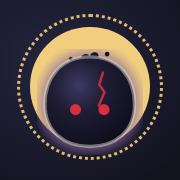
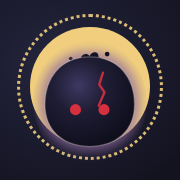
fix(nubatama site): アイコンのぬばたまの四角い跡と重い縁を直して撮り直す
オーナー 11-16「2つとも直して」。
- 四角い跡：原画のページ（nubatama/brand.html）には Tailwind が無く、駒の SVG の overflow-visible
  （クラス）が効かずに overflow: hidden のままだった。そのため暗紫のにじみが駒の四角い枠で切れ、
  月の上に四角い跡が出ていた（前のアイコンにもあった）。ページの CSS で .puyo-svg を overflow: visible に。
  ゲームの画面は Tailwind で もともと visible なので、盤の駒は変わらない
- 重い縁：ぬばたまの月白の縁を --nb-rim / --nb-rim-w で替えられるようにし（既定は盤と同じ
  rgba(232,228,216,.45)・1.3）、アイコンの大きな絵（駒 80px 以上）だけ .3・0.5 に細く淡くした。
  32px のタブのアイコンは駒が盤より小さいので盤と同じ縁のまま
- scripts/nubatama-brand.ps1 -Icon a で5枚を撮り直した

Changed region(s): [[0.2222, 0.3056, 0.7778, 0.8333]]

diff --git a/nubatama/brand.tsx b/nubatama/brand.tsx
@@ -25,11 +25,18 @@ const u = (v: number) => (v / 512) * s; // 512 枠の画素 → 実寸
 const FREEZE = `*, *::before, *::after { animation-play-state: paused !important; animation-delay: 0s !important; transition: none !important; }
 .onibi-spark { display: none !important; }`;
 
+/**
+ * ぬばたまの月白の縁。盤（駒 30〜40px）の太さ 1.3（40 枠）のままだと、アイコンの大きな絵（駒 100px 以上）では
+ * 太い灰色の輪に見えて重い（11-16 オーナー「2つとも直して」）。大きな絵だけ細く淡くする。
+ * 32px のタブのアイコンは駒が 19px で盤より小さいので、盤と同じ縁のまま（細くすると消える）
+ */
+const RIM_VARS = (sizePx: number) => (sizePx >= 80 ? { '--nb-rim': 'rgba(232,228,216,.3)', '--nb-rim-w': '0.5' } : {});
+
 /** 駒ひとつ。cx, cy は中心、size は駒の大きさ（512 枠） */
 const Piece: React.FC<{ color: 'ojama' | 'red' | 'blue' | 'green' | 'yellow'; cx: number; cy: number; size: number; rot?: number; filter?: string }> =
   ({ color, cx, cy, size, rot = 0, filter }) => (
     <div style={{ position: 'absolute', left: u(cx - size / 2), top: u(cy - size / 2), width: u(size), height: u(size),
-      rotate: rot ? `${rot}deg` : undefined, filter, ['--puyo-size' as string]: `${u(size)}px` } as React.CSSProperties}>
+      rotate: rot ? `${rot}deg` : undefined, filter, ['--puyo-size' as string]: `${u(size)}px`, ...RIM_VARS(u(size)) } as React.CSSProperties}>
       {color === 'ojama'
         ? <div style={{ clipPath: 'ellipse(54% 58% at 50% 50%)' }}><Puyo color="ojama" /></div>
         : <Puyo color={color} idle />}

diff --git a/components/game/Puyo.tsx b/components/game/Puyo.tsx
@@ -251,7 +251,8 @@ export const Nubatama: React.FC<{ variant?: number; blinkDelay?: string; eyes?: 
       <circle cx="26.6" cy="1.9" r=".9" fill="#141326" />
       <circle cx="12.8" cy="3.6" r=".7" fill="#141326" opacity=".8" />
       <use href="#puyo-body" fill="url(#puyo-g-ojama)" />
-      <use href="#puyo-body" fill="none" stroke={NB_RIM} strokeWidth="1.3" />
+      {/* 縁の色と太さは --nb-rim / --nb-rim-w で替えられる（アイコンの大きな絵では細く淡くする。nubatama/brand.tsx） */}
+      <use href="#puyo-body" fill="none" style={{ stroke: `var(--nb-rim, ${NB_RIM})`, strokeWidth: 'var(--nb-rim-w, 1.3)' }} />
       <path d={crack} stroke={CRACK_RED} strokeWidth=".9" fill="none" strokeLinecap="round" strokeLinejoin="round" opacity=".9" />
       {eyes && <g className="nubatama-eye" style={blinkDelay ? { animationDelay: blinkDelay } : undefined}><NubatamaEyes /></g>}
     </g>

diff --git a/nubatama/brand.html b/nubatama/brand.html
@@ -8,7 +8,10 @@
   <link rel="preconnect" href="https://fonts.googleapis.com">
   <link rel="preconnect" href="https://fonts.gstatic.com" crossorigin>
   <link href="https://fonts.googleapis.com/css2?family=Mochiy+Pop+One&family=Potta+One&family=Noto+Sans+JP:wght@400;700&display=swap" rel="stylesheet">
-  <style>html, body { margin: 0; padding: 0; background: transparent; overflow: hidden; }</style>
+  <style>html, body { margin: 0; padding: 0; background: transparent; overflow: hidden; }
+    /* このページには Tailwind が無いので、駒の SVG の overflow-visible（クラス）が効かず、ぬばたまのにじみが
+       駒の四角い枠で切れて、月の上に四角い跡が出た（11-16 オーナー「2つとも直して」）。ゲームの画面と同じく枠の外まで描く */
+    .puyo-svg { overflow: visible; }</style>
 </head>
 <body>
   <div id="root"></div>
